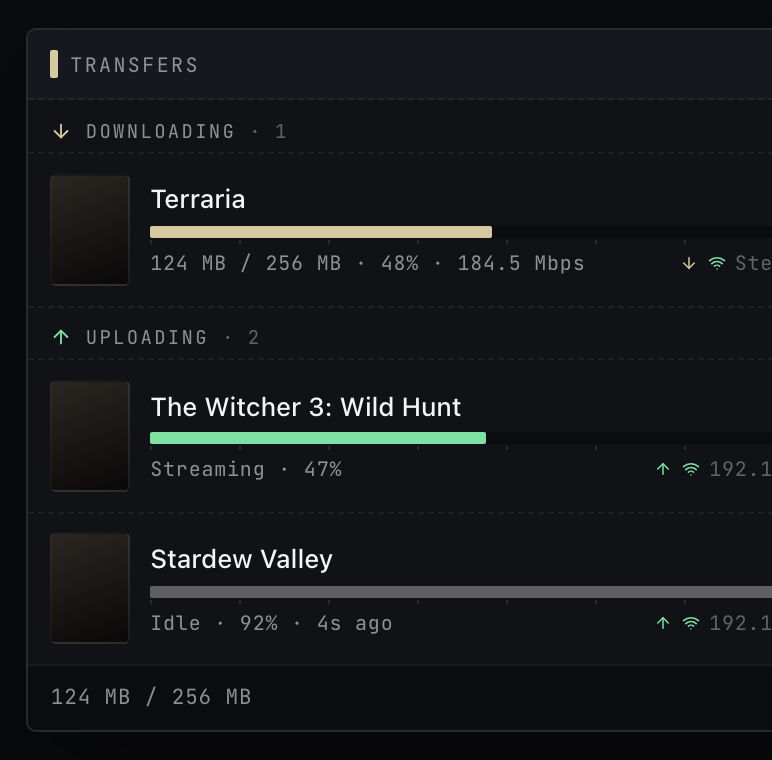
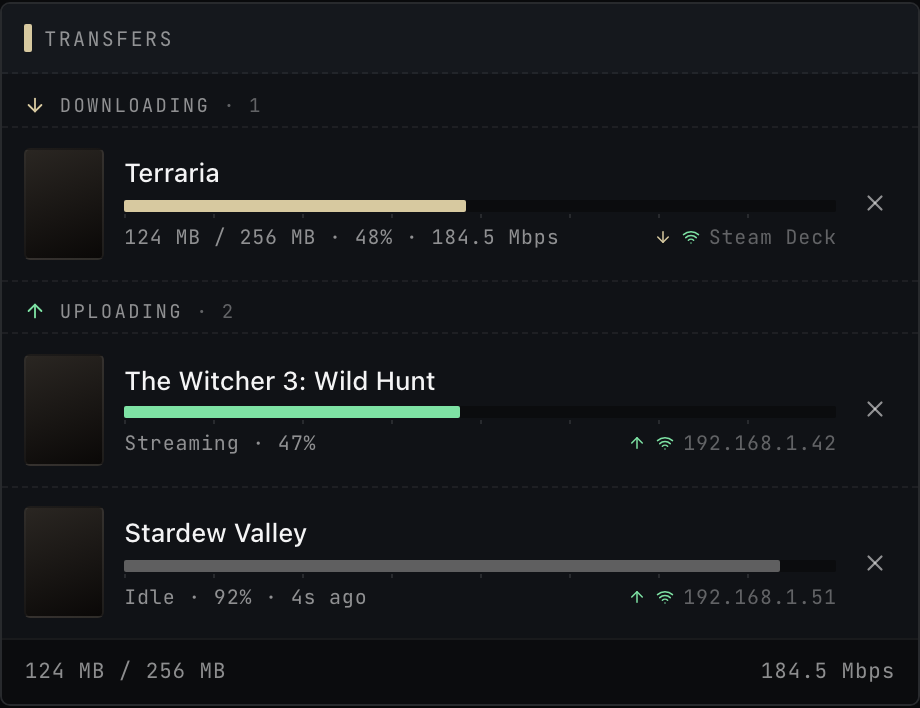
Fix transfers screenshot clipping and README image squish
The transfers shot was element-cropping #storybook-root, but TransfersPanel is
a fixed 460px-wide component the story wrapped in a 360px box, so the panel
overflowed and the capture cut off the right edge (cancel buttons, peer IPs).
Capture the panel's own [role="dialog"] root instead, and widen the story
wrapper to 460px so it isn't clipped in Storybook either.

Emit the README <img> tags with width only (no height): renderers that apply
max-width:100% without height:auto (VS Code's markdown preview) distort a
fixed-height image when the pane is narrower than the image. Width alone keeps
the aspect ratio proportional everywhere.

diff --git a/tauri/src/lib/components/TransfersPanel.stories.svelte b/tauri/src/lib/components/TransfersPanel.stories.svelte
@@ -23,7 +23,9 @@
 </script>
 
 {#snippet template(args: ComponentProps<typeof TransfersPanel>)}
-  <div style="width: 360px">
+  <!-- The panel is a fixed-width (460px) component; match the wrapper to it so
+       nothing overflows/clips in the story or in captured screenshots. -->
+  <div style="width: 460px">
     <TransfersPanel {...args} />
   </div>
 {/snippet}

diff --git a/README.md b/README.md
@@ -9,7 +9,7 @@
 </p>
 
 <!-- spool:shot id=library-desktop -->
-<img src="docs/screenshots/library-desktop.png" alt="Library Desktop" width="1440" height="900" />
+<img src="docs/screenshots/library-desktop.png" alt="Library Desktop" width="1440" />
 <!-- spool:endshot -->
 
 ---
@@ -33,7 +33,7 @@ overwriting yourself. If both sides changed, Spool shows a conflict picker inste
 of guessing.
 
 <!-- spool:shot id=cloud-conflict -->
-<img src="docs/screenshots/cloud-conflict.png" alt="Cloud Conflict" width="640" height="518" />
+<img src="docs/screenshots/cloud-conflict.png" alt="Cloud Conflict" width="640" />
 <!-- spool:endshot -->
 
 
@@ -47,7 +47,7 @@ Transfers verify every file, resume if interrupted, and add the game to your lib
 automatically when done.
 
 <!-- spool:shot id=transfers -->
-<img src="docs/screenshots/transfers.png" alt="Transfers" width="386" height="378" />
+<img src="docs/screenshots/transfers.png" alt="Transfers" width="460" />
 <!-- spool:endshot -->
 
 